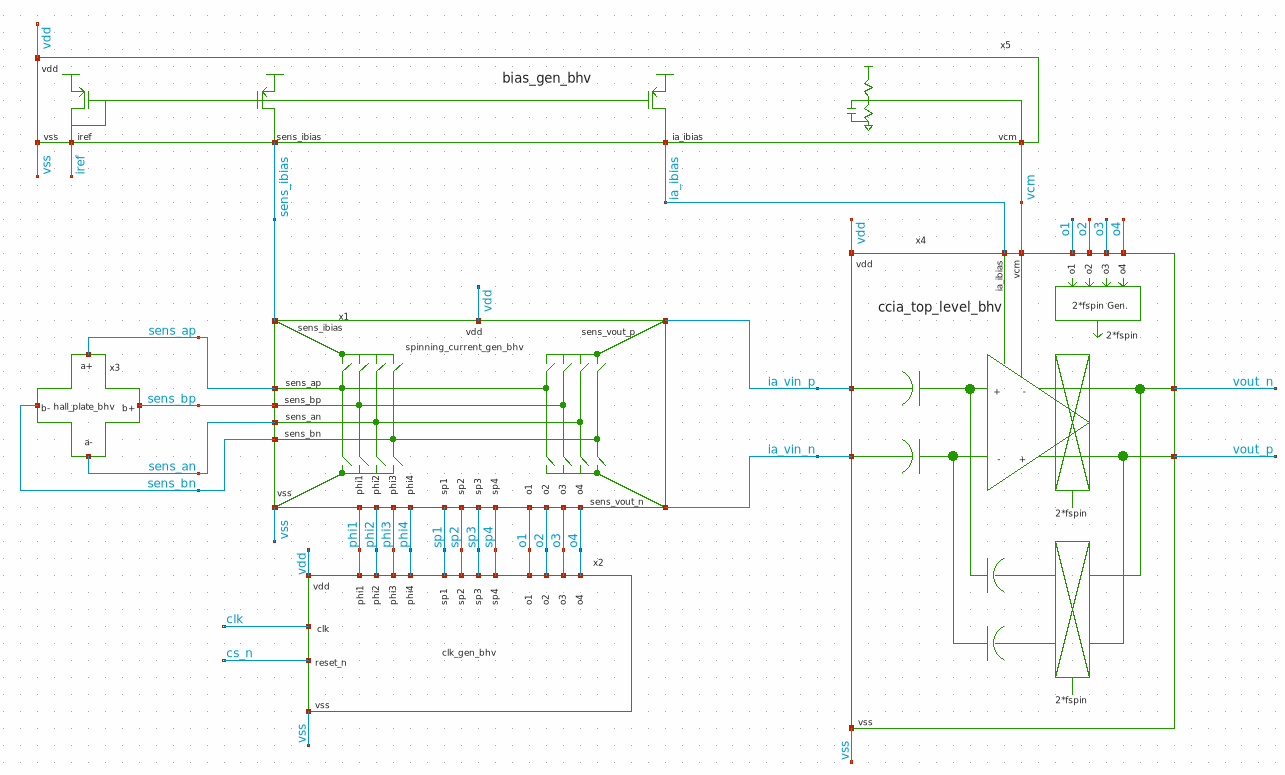
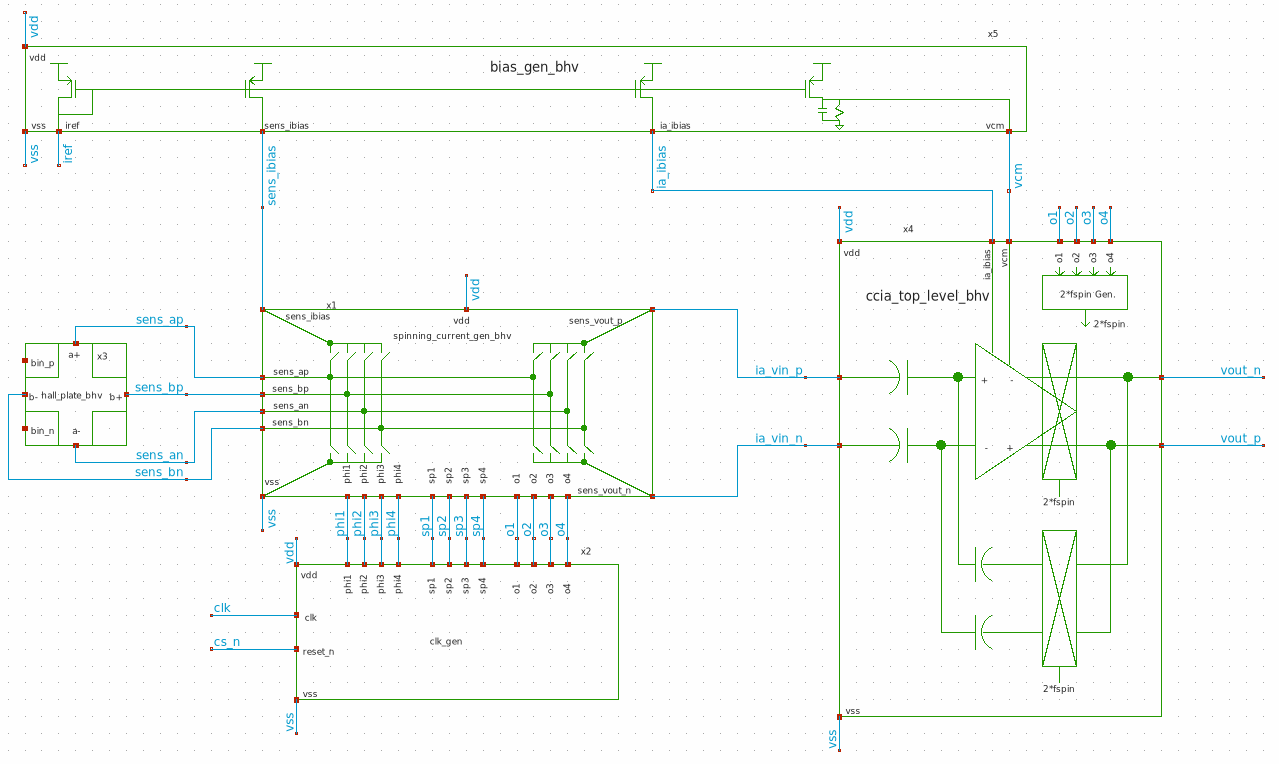
Update design document

diff --git a/docs/schematic_review/schematic_review.tex b/docs/schematic_review/schematic_review.tex
@@ -13,6 +13,7 @@
 \usepackage{indentfirst}
 \usepackage{xcolor}
 \usepackage{url}
+\usepackage{amssymb}
 
 \renewcommand{\arraystretch}{1.2}
 \setlength{\tabcolsep}{6pt}
@@ -105,7 +106,7 @@ A block diagram of the system is shown in Fig.~\ref{fig:block_diagram}.
 
 \begin{figure}[htbp]
     \centering
-    \includegraphics[width=\linewidth]{figs/chip_block_diagram.pdf}
+    \includegraphics[width=\linewidth]{figs/chip_block_diagram.png}
     \caption{Block diagram of the proposed architecture.}
     \label{fig:block_diagram}
 \end{figure}
@@ -155,6 +156,9 @@ A full pinout table of the design is given in Table~\ref{tab:pinout}.
 \newpage
 
 \section{Schematic Summary}
+
+\textbf{Note:} Only open \path{xschem} from the \path{xschem/} directory 
+(i.e., \path{cd} to \path{xschem/} and then run \path{xschem} \path{/path/to/schematic} to open any schematics).
 
 This section describes the schematic-level operation of each part of the design. For each block, 
 both behavioral and transistor-level models are described, including motivation for key design 
@@ -226,8 +230,16 @@ additional input to provide the incoming magnetic field.
     \item{n-well used to maximize sensitivity}
     \item{
         Design equations in \cite{Xu2011ImprovedEquivalent} used to estimate bridge resistor values 
-        in behavioral model from n-well sheet resistance and geometry
+        in behavioral model from n-well sheet resistance, n-well electron mobility, and geometry
     }
+    \begin{itemize}
+        \item{
+            Sensor geometry target currently 75x75 um (from \cite{Xu2011ImprovedEquivalent}, L=25 um and W=25 um).
+            Final decision will depend on (1) min contact size/DRC limitations, (2) parasitic capacitance, 
+            (3) thermal considerations at maximum bias current.
+        }
+        \item{n-well electron mobility estimated to make sensor have raw sensitivity of $\SI{100}{\volt\per(\ampere\cdot\tesla)}$}
+    \end{itemize}
 \end{itemize}
 
 \subsubsection*{Transistor-Level Implementation}
@@ -251,7 +263,7 @@ is shown in Fig.~\ref{fig:bias_gen_bhv}.
         Xschem schematic symbol for bias generation block.
         The block creates the sensor bias current and IA current reference from
         an off-chip reference current source. Also, the IA common-mode voltage is generated 
-        by an on-chip resistor divider.  
+        by an on-chip R-C (buffer may be added if load large enough).  
     }
     \label{fig:bias_gen_bhv}
 \end{figure}
@@ -263,14 +275,14 @@ INSERT I/O TABLE
 \subsubsection*{Sub-sheets}
 
 \begin{itemize}
-    \item{Behavioral: \path{xschem/bias_gen_bhv/bias_gen_bhv.sch}}
+    \item{Behavioral: \textcolor{red}{$\times$}}
     \item{Implementation: \textcolor{red}{$\times$}}
 \end{itemize}
 
 \subsubsection*{Behavioral Model}
 
-The behavioral model will use ideal current-controlled current sources (CCCS) to generate
-the required bias currents and ideal passive components to generate the IA common-mode voltage.
+Due to the relative simplicity of the design and issues with ideal current sources
+with zero load (large voltage spikes), no behavioral modeling will be done for this block.
 
 \subsubsection*{Design Methodology}
 
@@ -278,10 +290,7 @@ As hinted in the schematic symbol, current mirrors will be used to produce
 the bias currents. Transistor dimensions will be chosen to minimize short-channel
 effects and current mismatch.
 
-The common-mode voltage generator will be evaluated initially using only passive 
-components (resistor values chosen to achieve satsifactory tradeoff between
-silicon area and static power dissipation), but this design decision may be revisited
-if needed. 
+The common-mode voltage generator will be evaluated initially to do the required I-V conversion.
 
 \subsubsection*{Transistor-Level Implementation}
 
@@ -366,24 +375,25 @@ INSERT I/O TABLE
 \subsubsection*{Sub-sheets}
 
 \begin{itemize}
-    \item{Behavioral: \path{xschem/clk_gen_bhv/clk_gen_bhv.sch}}
-    \item{Implementation: \textcolor{red}{$\times$}}
+    \item{Behavioral: \textcolor{red}{$\times$} (see below)}
+    \item{Implementation: \path{xschem/clk_gen/clk_gen.sch}}
 \end{itemize}
 
 \subsubsection*{Behavioral Model}
 
-Standard cells may be used right away to implement the clock generation 
+Standard cells are directly used to implement the clock generation 
 logic. If this slows down simulation significantly, time will be invested to 
 use the ngspice XSPICE primitives to implement the required digital circuit in 
-an event-driven paradigm. 
+an event-driven paradigm. Since I could not find symbols for the GF180MCU 7T standard cells,
+custom symbols were created (\path{xschem/mcu7t5v0/})
 
 \subsubsection*{Design Methodology}
 
-The clock generation circuits from Chapter X of \cite{Jiang2019CMOSWideBandwidth} will be used. 
+The clock generation circuits from Chapter 3 of \cite{Jiang2019CMOSWideBandwidth} will be used. 
 
 \subsubsection*{Transistor-Level Implementation}
 
-Not started: \textcolor{red}{$\times$}
+Completed: \textcolor{green}{\checkmark}
 
 \subsection{Configuration Register}
 
@@ -414,7 +424,8 @@ The following assumptions are made within the design.
 
 \begin{itemize}
     \item{The circuit shall be designed to operate from a single 3.3V supply}
-    \item{The circuit shall be designed to operate over the temperature range of (\SI{-40}{\degreeCelsius} - \SI{125}{\degreeCelsius})}
+    \item{The circuit shall be designed to operate over the temperature range of (\SI{-40}{\degreeCelsius} - \SI{125}{\degreeCelsius}). 
+    Accurately modeling the sensor over this temperature range is out of scope, so system specifications are only given at room temperature.}
     \item{The specifications of each circuit shall be simulated over all worst-case process corners}
     \item{Each analog output (both OUT+ and OUT-) of the 
     readout circuit shall be capable of driving a 
@@ -435,7 +446,12 @@ The following assumptions are made within the design.
 
 \subsection{Functional Simulations}
 
-Not started
+\subsubsection*{Basic Spinning Current Verification}
+
+The purpose of this testbench is to verify the sensor behavioral model and spinning current generation
+appropriately reduce the sensor offset using ideal IA and chopping switches. 
+
+See \path{/xschem/spin_test/spin_test.sch}
 
 \subsection{Corner Simulations}
 